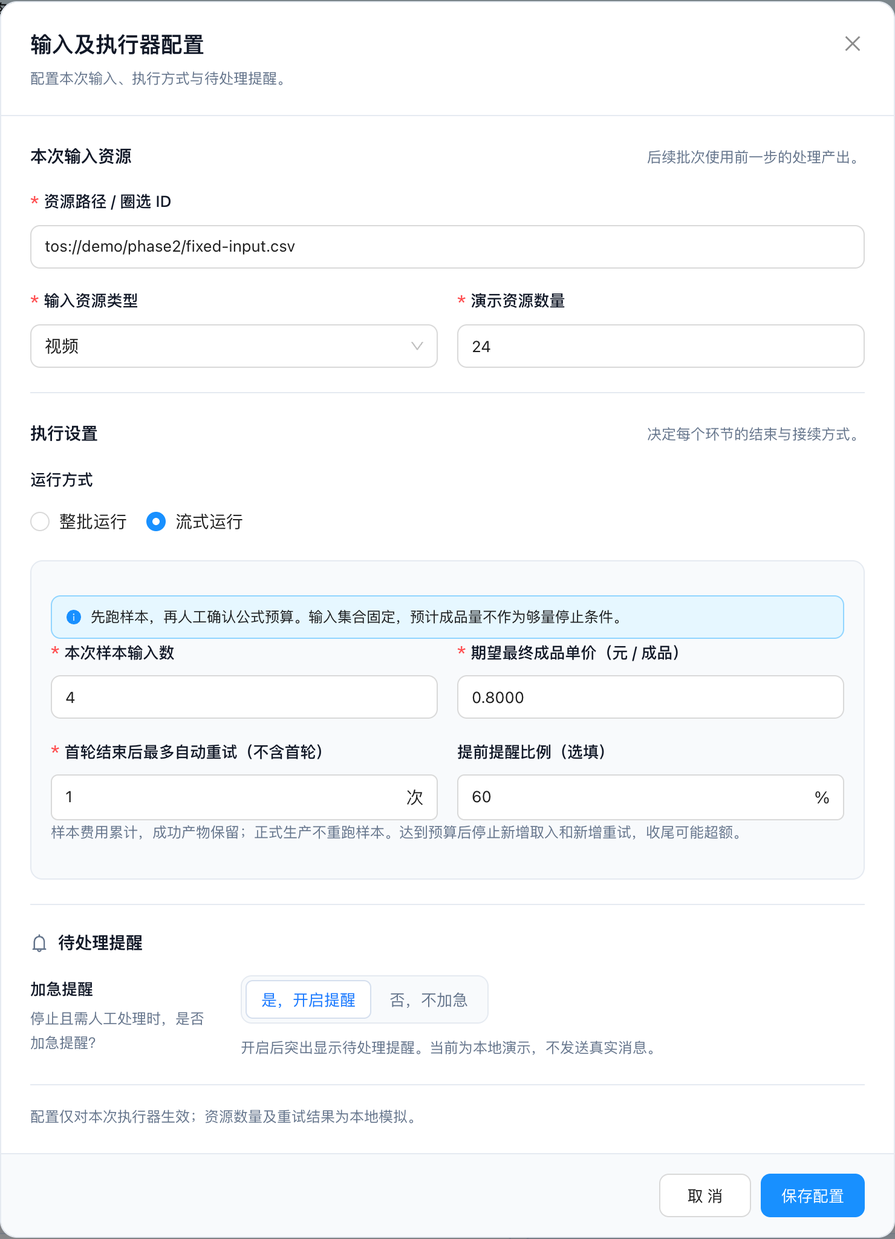
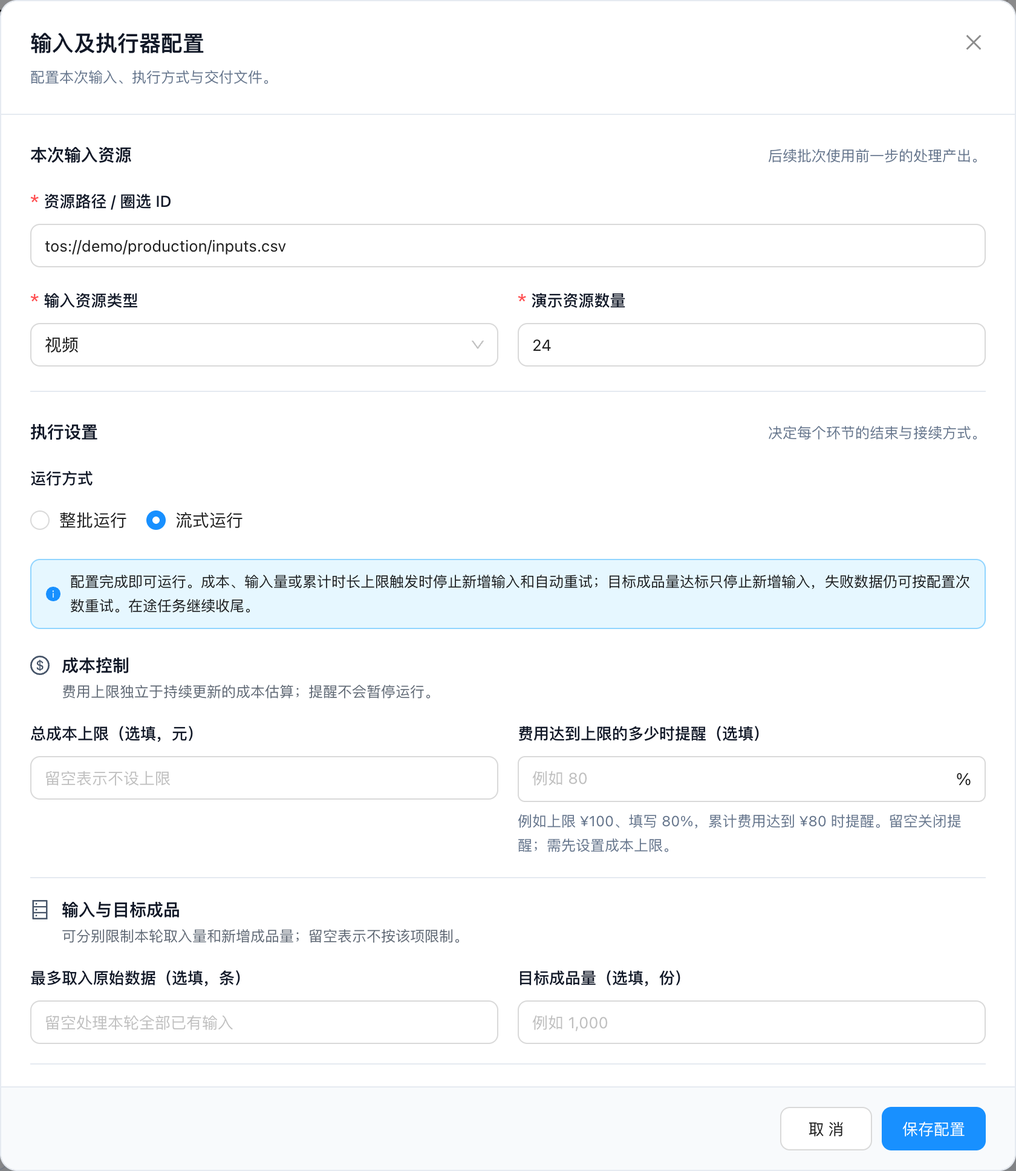
Clarify executor settings and anonymize demo data

diff --git a/src/components/sites/hawk/pipeline/executor-configuration.tsx b/src/components/sites/hawk/pipeline/executor-configuration.tsx
@@ -2,7 +2,7 @@
 
 import { useState } from 'react';
 import { Alert, Form, Input, InputNumber, Modal, Radio, Select, Slider, Typography } from 'antd';
-import { BellOutlined, CheckCircleOutlined, SafetyOutlined, AimOutlined } from '@ant-design/icons';
+import { BellOutlined, CheckCircleOutlined, SafetyOutlined, AimOutlined, BarChartOutlined, ClockCircleOutlined, DatabaseOutlined, DollarCircleOutlined, RedoOutlined } from '@ant-design/icons';
 import { executorSettings, type ExecutorSettings } from '../data/executor-settings';
 import type { StreamPolicy } from '../data/executor-streaming';
 import type { LocalExecutor } from '../data/local-workspace';
@@ -25,7 +25,7 @@ export function ExecutorConfiguration({ executor, onCancel, onSave }: { executor
   const after = Form.useWatch(['settings', 'afterRetries'], form) ?? executorSettings(executor.settings).afterRetries;
   const runMode = Form.useWatch('runMode', form) ?? executor.runMode ?? 'batch';
   const locked = Boolean(executor.runtime?.started);
-  return <Modal title={<div className="hawk-settings-heading"><span>输入及执行器配置</span><p>{locked ? '执行已开始，当前配置仅供查看。' : '配置本次输入、执行方式与交付文件。'}</p></div>} open centered width={740} className="hawk-settings-modal hawk-executor-configuration" okText="保存配置" okButtonProps={{ disabled: locked }} cancelText={locked ? '关闭' : '取消'} onCancel={onCancel} onOk={async () => {
+  return <Modal title={<div className="hawk-settings-heading"><span>输入及执行器配置</span><p>{locked ? '执行已开始，当前配置仅供查看。' : '配置本次输入、执行方式与交付文件。'}</p></div>} open centered width={840} className="hawk-settings-modal hawk-executor-configuration" okText="保存配置" okButtonProps={{ disabled: locked }} cancelText={locked ? '关闭' : '取消'} onCancel={onCancel} onOk={async () => {
     try { if (locked) return; const values = await form.validateFields(); onSave({ ...values, settings: executorSettings(values.settings) }); }
     catch (issue) { if (issue instanceof Error) setError(issue.message); }
   }}>
@@ -45,20 +45,35 @@ export function ExecutorConfiguration({ executor, onCancel, onSave }: { executor
       <section className="hawk-settings-section">
         <div className="hawk-settings-section-heading"><h3>执行设置</h3><p>决定每个环节的结束与接续方式。</p></div>
         <Form.Item name="runMode" label="运行方式"><Radio.Group disabled={locked} options={[{ value: 'batch', label: '整批运行' }, { value: 'stream', label: '流式运行' }]} /></Form.Item>
-        {runMode === 'stream' ? <div className="hawk-executor-target-settings">
-          <Alert type="info" showIcon message="启动时取得本轮已有输入，按流式连续处理。成本、输入条数、实际运行时长任一达到上限，停止新输入及自动重试；在途任务继续收尾。" />
-          <div className="hawk-executor-config-grid">
-            <Form.Item name={['streamPolicy', 'costLimitCents']} label="总成本上限（选填，元）" getValueProps={value => ({ value: value === undefined ? undefined : value / 100 })} getValueFromEvent={value => value === null || value === undefined ? undefined : Math.round(value * 100)}><InputNumber disabled={locked} min={0.01} precision={2} placeholder="留空表示不设上限" style={{ width: '100%' }} /></Form.Item>
-            <Form.Item name={['streamPolicy', 'inputLimit']} label="最多取入原始数据（选填，条）" getValueFromEvent={value => value ?? undefined}><InputNumber disabled={locked} min={1} precision={0} placeholder="留空处理本轮全部已有输入" style={{ width: '100%' }} /></Form.Item>
-            <Form.Item name={['streamPolicy', 'runtimeLimitMs']} label="累计运行时长上限（选填）" extra="按执行器整体累计实际处理时间；多个环节同时处理只计一次，不含暂停、排队和无数据等待。"><ExecutorDurationInput disabled={locked} /></Form.Item>
-            <Form.Item name={['streamPolicy', 'targetOutputCount']} label="目标成品量（选填，份）" getValueFromEvent={value => value ?? undefined} extra="达到后停止新输入，在途任务继续收尾，最终产量可能超出目标。失败数据仍按已配置的重试规则处理，人工重试由你决定。"><InputNumber disabled={locked} min={1} precision={0} placeholder="例如 1,000" style={{ width: '100%' }} /></Form.Item>
-            <Form.Item name={['streamPolicy', 'unitCostMin']} label="单条成品成本预估下限（选填）"><InputNumber disabled={locked} min={0.0001} precision={4} placeholder="元 / 可交付成品" style={{ width: '100%' }} /></Form.Item>
-            <Form.Item name={['streamPolicy', 'unitCostMax']} label="单条成品成本预估上限（选填）"><InputNumber disabled={locked} min={0.0001} precision={4} placeholder="元 / 可交付成品" style={{ width: '100%' }} /></Form.Item>
+        {runMode === 'stream' ? <div className="hawk-executor-target-settings hawk-stream-settings">
+          <Alert type="info" showIcon message="配置完成即可运行。成本、输入量或累计时长上限触发时停止新增输入和自动重试；目标成品量达标只停止新增输入，失败数据仍可按配置次数重试。在途任务继续收尾。" />
+          <section className="hawk-stream-config-group">
+            <div className="hawk-stream-config-heading"><DollarCircleOutlined aria-hidden="true" /><div><strong>成本控制</strong><p>费用上限独立于持续更新的成本估算；提醒不会暂停运行。</p></div></div>
+            <div className="hawk-executor-config-grid">
+              <Form.Item name={['streamPolicy', 'costLimitCents']} label="总成本上限（选填，元）" getValueProps={value => ({ value: value === undefined ? undefined : value / 100 })} getValueFromEvent={value => value === null || value === undefined ? undefined : Math.round(value * 100)}><InputNumber disabled={locked} min={0.01} precision={2} placeholder="留空表示不设上限" style={{ width: '100%' }} /></Form.Item>
+              <Form.Item name={['streamPolicy', 'reminderRatio']} label="费用达到上限的多少时提醒（选填）" extra="例如上限 ¥100、填写 80%，累计费用达到 ¥80 时提醒。留空关闭提醒；需先设置成本上限。"><InputNumber disabled={locked} min={0.01} max={99.99} suffix="%" placeholder="例如 80" style={{ width: '100%' }} /></Form.Item>
+            </div>
+          </section>
+          <section className="hawk-stream-config-group">
+            <div className="hawk-stream-config-heading"><DatabaseOutlined aria-hidden="true" /><div><strong>输入与目标成品</strong><p>可分别限制本轮取入量和新增成品量；留空表示不按该项限制。</p></div></div>
+            <div className="hawk-executor-config-grid">
+              <Form.Item name={['streamPolicy', 'inputLimit']} label="最多取入原始数据（选填，条）" getValueFromEvent={value => value ?? undefined}><InputNumber disabled={locked} min={1} precision={0} placeholder="留空处理本轮全部已有输入" style={{ width: '100%' }} /></Form.Item>
+              <Form.Item name={['streamPolicy', 'targetOutputCount']} label="目标成品量（选填，份）" getValueFromEvent={value => value ?? undefined}><InputNumber disabled={locked} min={1} precision={0} placeholder="例如 1,000" style={{ width: '100%' }} /></Form.Item>
+            </div>
+          </section>
+          <section className="hawk-stream-config-group">
+            <div className="hawk-stream-config-heading"><ClockCircleOutlined aria-hidden="true" /><div><strong>累计运行时长</strong><p>按执行器累计的实际处理时间计算，并行环节同时处理只计一次。</p></div></div>
+            <Form.Item name={['streamPolicy', 'runtimeLimitMs']} label="运行时长上限（选填）" extra="暂停、排队及无数据等待时间不计入；达到上限后停止新增输入和自动重试，在途任务继续收尾。"><ExecutorDurationInput disabled={locked} /></Form.Item>
+          </section>
+          <section className="hawk-stream-config-group">
+            <div className="hawk-stream-config-heading"><RedoOutlined aria-hidden="true" /><div><strong>失败数据重试</strong><p>限制自动重试轮数；暂停后可按需人工补救。</p></div></div>
             <Form.Item name={['streamPolicy', 'maxRetries']} label="首轮处理后，失败数据自动重试" extra="仅重试失败数据，成功后继续下游；0 表示不自动重试，次数不含首次执行。"><InputNumber disabled={locked} min={0} precision={0} suffix="轮" style={{ width: '100%' }} /></Form.Item>
-            <Form.Item name={['streamPolicy', 'reminderRatio']} label="费用达到上限的多少时提醒（选填）" extra="例如上限 ¥100、填写 80%，累计费用达到 ¥80 时提醒，仍继续运行。留空关闭提醒；需先设置成本上限。"><InputNumber disabled={locked} min={0.01} max={99.99} suffix="%" placeholder="例如 80；留空关闭提醒" style={{ width: '100%' }} /></Form.Item>
-          </div>
-          <Form.Item name={['streamPolicy', 'observationSize']} label="观察批量" className="hawk-observation-slider"><Slider disabled={locked} min={100} max={1000} step={100} marks={{ 100: { style: { transform: 'none' }, label: '100 条' }, 500: '500 条', 1000: { style: { transform: 'translateX(-100%)' }, label: '1,000 条' } }} /></Form.Item>
-          <Typography.Paragraph type="secondary">按已收尾输入的最终成品计算单位成本，包含失败与重试投入。观察批量仅用于更新估算，不影响直接生产；扩大样本不保证缩小预测波动。</Typography.Paragraph>
+          </section>
+          <section className="hawk-stream-config-group hawk-stream-observation">
+            <div className="hawk-stream-config-heading"><BarChartOutlined aria-hidden="true" /><div><strong>估算刷新批量</strong><p>只影响成本与产量估算更新频率，不影响生产启动或取入量。</p></div></div>
+            <Form.Item name={['streamPolicy', 'observationSize']} label="观察批量" className="hawk-observation-slider"><Slider disabled={locked} min={100} max={1000} step={100} marks={{ 100: { style: { transform: 'none' }, label: '100 条' }, 500: '500 条', 1000: { style: { transform: 'translateX(-100%)' }, label: '1,000 条' } }} /></Form.Item>
+          </section>
+          <Typography.Paragraph type="secondary">成本预测按已收尾输入及最终成品配对估算，包含失败与重试投入；样本不足时显示原因，不保证后续输入与样本相同。</Typography.Paragraph>
         </div> : <><div className="hawk-settings-row">
           <div className="hawk-settings-row-label"><strong>执行模式</strong><p>应用于本次执行器的所有环节。</p></div>
           <div>

diff --git a/src/components/sites/hawk/data/phase2-examples.ts b/src/components/sites/hawk/data/phase2-examples.ts
@@ -1,17 +1,55 @@
 import type { LocalWorkspace } from './local-workspace';
 import { executorSettings } from './executor-settings';
-import { withDeliveryExamples } from './delivery-examples';
+import { DELIVERY_DEMO_FLOW_NAMES, withDeliveryExamples } from './delivery-examples';
 import { cloneExecutor, configureExecutor } from './executor-runtime';
 import { startStream, tickStream } from './executor-streaming';
+import { cloneWorkspace } from './delivery';
+
+const PHASE2_EXECUTOR_NAMES = {
+  'phase2-1555': ['运行上限与计时 · 可启动验收执行器', '定军山 · 运行上限与计时'],
+  'phase2-1441': ['录屏迭代验收 · 可启动的三环节执行器', '长坂坡 · 三环节流式验收'],
+  'phase2-demo': ['流式生产 · 实绩成本估算', '草船借箭 · 流式生产与成本估算'],
+  'phase2-cost': ['成本上限 · 收尾与人工继续', '赤壁火攻 · 成本收尾与人工继续'],
+  'phase2-zero': ['零成品 · 成本不可计算', '空城计 · 零成品与估算边界'],
+  'phase2-acceptance': ['验收演示 · 可启动的三环节流式执行器', '桃园结义 · 三环节流式验收'],
+  'phase2-live': ['流式生产 · 实绩与成本估算', '木牛流马 · 流式生产与成本估算'],
+} as const;
+
+function refreshPhase2ExampleNames(workspace: LocalWorkspace): LocalWorkspace {
+  let changes = false;
+  for (const [id, [oldName]] of Object.entries(PHASE2_EXECUTOR_NAMES)) {
+    const executor = workspace.executors.find(item => item.id === id);
+    if (executor?.name === oldName || executor?.flows.some((flow, index) => flow.id === `delivery-demo-${index}` && flow.name === ['A · 数据整理', 'B · 标注处理', 'C · 结果复核'][index])) changes = true;
+    if (executor?.runtime?.batchIds.some(batchId => workspace.batches.some(batch => batch.id === batchId && ['A · 数据整理', 'B · 标注处理', 'C · 结果复核'].includes(batch.name)))) changes = true;
+  }
+  if (!changes) return workspace;
+  const next = cloneWorkspace(workspace);
+  for (const [id, [oldName, name]] of Object.entries(PHASE2_EXECUTOR_NAMES)) {
+    const executor = next.executors.find(item => item.id === id);
+    if (!executor) continue;
+    if (executor.name === oldName) executor.name = name;
+    executor.flows = executor.flows.map((flow, index) => ({
+      ...flow,
+      name: flow.id === `delivery-demo-${index}` && ['A · 数据整理', 'B · 标注处理', 'C · 结果复核'][index] === flow.name ? DELIVERY_DEMO_FLOW_NAMES[index] : flow.name,
+    }));
+    for (const batchId of executor.runtime?.batchIds ?? []) {
+      const batch = next.batches.find(item => item.id === batchId);
+      const index = batch ? ['A · 数据整理', 'B · 标注处理', 'C · 结果复核'].indexOf(batch.name) : -1;
+      if (batch && index >= 0) batch.name = DELIVERY_DEMO_FLOW_NAMES[index];
+    }
+  }
+  return next;
+}
+
 /** Opt-in, synthetic fixtures. Existing records are never overwritten. Parameters are scenario inputs, not business defaults. */
 export function withPhase2Examples(w: LocalWorkspace): LocalWorkspace {
   let next = withDeliveryExamples(w);
   for (const [id, name, policy] of [
-    ['phase2-1555', '运行上限与计时 · 可启动验收执行器', { maxRetries: 0, observationSize: 100 }],
-    ['phase2-1441', '录屏迭代验收 · 可启动的三环节执行器', { maxRetries: 0, observationSize: 100 }],
-    ['phase2-demo', '流式生产 · 实绩成本估算', { maxRetries: 1, observationSize: 100 }],
-    ['phase2-cost', '成本上限 · 收尾与人工继续', { costLimitCents: 432, maxRetries: 1, reminderRatio: 60, observationSize: 100 }],
-    ['phase2-zero', '零成品 · 成本不可计算', { maxRetries: 0, observationSize: 100 }],
+    ['phase2-1555', '定军山 · 运行上限与计时', { maxRetries: 0, observationSize: 100 }],
+    ['phase2-1441', '长坂坡 · 三环节流式验收', { maxRetries: 0, observationSize: 100 }],
+    ['phase2-demo', '草船借箭 · 流式生产与成本估算', { maxRetries: 1, observationSize: 100 }],
+    ['phase2-cost', '赤壁火攻 · 成本收尾与人工继续', { costLimitCents: 432, maxRetries: 1, reminderRatio: 60, observationSize: 100 }],
+    ['phase2-zero', '空城计 · 零成品与估算边界', { maxRetries: 0, observationSize: 100 }],
   ] as const) {
     if (next.executors.some(e => e.id === id)) continue;
     next = cloneExecutor(next, 'delivery-demo', { id, name, includeInput: true, includeConfiguration: true });
@@ -19,17 +57,17 @@ export function withPhase2Examples(w: LocalWorkspace): LocalWorkspace {
     if (id === 'phase2-zero') next.executors.find(e => e.id === id)!.streamPolicy!.costLimitCents = undefined;
   }
   if (!next.executors.some(e => e.id === 'phase2-acceptance')) {
-    next = cloneExecutor(next, 'delivery-demo', { id: 'phase2-acceptance', name: '验收演示 · 可启动的三环节流式执行器', includeInput: true, includeConfiguration: true });
+    next = cloneExecutor(next, 'delivery-demo', { id: 'phase2-acceptance', name: '桃园结义 · 三环节流式验收', includeInput: true, includeConfiguration: true });
     next = configureExecutor(next, 'phase2-acceptance', { resource: 'tos://demo/acceptance/240-videos.csv', count: 240, resourceType: 'video', settings: executorSettings(), runMode: 'stream', streamPolicy: { maxRetries: 0, observationSize: 100 } });
   }
   if (!next.executors.some(e => e.id === 'phase2-live')) {
-    next = cloneExecutor(next, 'delivery-demo', { id: 'phase2-live', name: '流式生产 · 实绩与成本估算', includeInput: true, includeConfiguration: true });
-    next = configureExecutor(next, 'phase2-live', { resource: 'tos://demo/production/10k-videos.csv', count: 10000, resourceType: 'video', settings: executorSettings(), runMode: 'stream', streamPolicy: { costLimitCents: 80000, unitCostMin: 0.2, unitCostMax: 0.4, maxRetries: 1, observationSize: 100 } });
+    next = cloneExecutor(next, 'delivery-demo', { id: 'phase2-live', name: '木牛流马 · 流式生产与成本估算', includeInput: true, includeConfiguration: true });
+    next = configureExecutor(next, 'phase2-live', { resource: 'tos://demo/production/10k-videos.csv', count: 10000, resourceType: 'video', settings: executorSettings(), runMode: 'stream', streamPolicy: { costLimitCents: 80000, maxRetries: 1, observationSize: 100 } });
     next = startStream(next, 'phase2-live');
     for (let i = 0; i < 130; i++) next = tickStream(next, 'phase2-live');
     // Pre-seeded progress has no measured browser intervals.
     const seeded = next.executors.find(e => e.id === 'phase2-live')!.stream!;
     seeded.activeRunMs = undefined; seeded.stageActiveMs = undefined;
   }
-  return next;
+  return refreshPhase2ExampleNames(next);
 }

diff --git a/src/components/sites/hawk/data/delivery-examples.ts b/src/components/sites/hawk/data/delivery-examples.ts
@@ -4,9 +4,32 @@ import type { PipelineDraft } from './mock-pipelines';
 import { cloneWorkspace, type ResultRecord } from './delivery';
 import { initializeExecutor, setExecutorInput } from './executor-runtime';
 
+export const DELIVERY_DEMO_FLOW_NAMES = ['桃园结义 · 数据整理', '草船借箭 · 标注处理', '赤壁火攻 · 成果复核'] as const;
+const LEGACY_DELIVERY_DEMO_FLOW_NAMES = ['A · 数据整理', 'B · 标注处理', 'C · 结果复核'] as const;
+
+function refreshDeliveryDemoNames(workspace: LocalWorkspace): LocalWorkspace {
+  const executor = workspace.executors.find(item => item.id === 'delivery-demo');
+  const batch = workspace.batches.find(item => item.id === 5889);
+  const flowChanges = executor?.flows.some((flow, index) => flow.id === `delivery-demo-${index}` && flow.name === LEGACY_DELIVERY_DEMO_FLOW_NAMES[index]);
+  const hasLegacyNames = executor?.name === '导出体验 · 三环节串联示例' || batch?.name === '时间范围导出 · 示例批次' || batch?.nodes.some(node => node.name === '结果处理') || flowChanges;
+  if (!hasLegacyNames) return workspace;
+
+  const next = cloneWorkspace(workspace);
+  const demo = next.executors.find(item => item.id === 'delivery-demo');
+  const demoBatch = next.batches.find(item => item.id === 5889);
+  if (demo?.name === '导出体验 · 三环节串联示例') demo.name = '桃园结义 · 三环节串联示例';
+  if (demo) demo.flows = demo.flows.map((flow, index) => ({
+    ...flow,
+    name: flow.id === `delivery-demo-${index}` && flow.name === LEGACY_DELIVERY_DEMO_FLOW_NAMES[index] ? DELIVERY_DEMO_FLOW_NAMES[index] : flow.name,
+  }));
+  if (demoBatch?.name === '时间范围导出 · 示例批次') demoBatch.name = '草船借箭 · 时间范围导出示例';
+  if (demoBatch) demoBatch.nodes = demoBatch.nodes.map(node => node.name === '结果处理' ? { ...node, name: '结果整理' } : node);
+  return next;
+}
+
 /** Explicit opt-in examples. Never reset existing user work or rewrite legacy rows. */
 export function withDeliveryExamples(workspace: LocalWorkspace): LocalWorkspace {
-  if (workspace.executors.some(item => item.id === 'delivery-demo') && workspace.batches.some(item => item.id === 5889)) return workspace;
+  if (workspace.executors.some(item => item.id === 'delivery-demo') && workspace.batches.some(item => item.id === 5889)) return refreshDeliveryDemoNames(workspace);
   let next = cloneWorkspace(workspace);
   const sampleResults = (id: number): ResultRecord[] => [3, 1, 2, 6, 4, 5, 9, 7, 8, 12, 10, 11].map((order, index) => ({
     id: `${id}:${order}`, batchId: id, inputOrder: order,
@@ -14,12 +37,12 @@ export function withDeliveryExamples(workspace: LocalWorkspace): LocalWorkspace 
     values: { tos_path: `tos://demo/time-export/${order}.json`, result: `合成示例 ${order}` },
   }));
   if (!next.batches.some(item => item.id === 5889)) {
-    const batch: BatchRow = { id: 5889, projectId: 234, name: '时间范围导出 · 示例批次', workflow: 'flow.delivery-demo@1', status: '已暂停', total: 24, success: 12, failed: 0, filtered: 0, progress: 50, cost: '¥ 0.00', createdAt: '2026-11-03 08:50:00', updatedAt: '2026-11-03 10:25:00', material: '其他', notice: '不通知', inputResource: 'tos://demo/time-export/input.csv', outputFields: ['tos_path', 'result'], nodes: [{ seq: 1, name: '结果处理', status: '已完成', cost: '¥ 0.00' }], results: sampleResults(5889), simulation: {} };
+    const batch: BatchRow = { id: 5889, projectId: 234, name: '草船借箭 · 时间范围导出示例', workflow: 'flow.delivery-demo@1', status: '已暂停', total: 24, success: 12, failed: 0, filtered: 0, progress: 50, cost: '¥ 0.00', createdAt: '2026-11-03 08:50:00', updatedAt: '2026-11-03 10:25:00', material: '其他', notice: '不通知', inputResource: 'tos://demo/time-export/input.csv', outputFields: ['tos_path', 'result'], nodes: [{ seq: 1, name: '结果整理', status: '已完成', cost: '¥ 0.00' }], results: sampleResults(5889), simulation: {} };
     next.batches.push(batch);
   }
   if (!next.executors.some(item => item.id === 'delivery-demo')) {
-    const flows: PipelineDraft[] = ['A · 数据整理', 'B · 标注处理', 'C · 结果复核'].map((name, index) => ({ id: `delivery-demo-${index}`, name, description: '导出体验合成示例', status: 'published', outputs: ['tos_path', 'result'], version: 1 }));
-    next.executors.push({ id: 'delivery-demo', name: '导出体验 · 三环节串联示例', description: '合成数据，演示当前批次收尾与下游接续', projectId: 234, source: 'selection', flowIds: flows.map(item => item.id), flows });
+    const flows: PipelineDraft[] = DELIVERY_DEMO_FLOW_NAMES.map((name, index) => ({ id: `delivery-demo-${index}`, name, description: '导出体验合成示例', status: 'published', outputs: ['tos_path', 'result'], version: 1 }));
+    next.executors.push({ id: 'delivery-demo', name: '桃园结义 · 三环节串联示例', description: '合成数据，演示当前批次收尾与下游接续', projectId: 234, source: 'selection', flowIds: flows.map(item => item.id), flows });
     next = initializeExecutor(next, 'delivery-demo', Object.fromEntries(flows.map(flow => [`annotation-demo.published.${flow.id}.v1`, { nodes: [{ id: 'process', data: { operatorId: 'demo', label: flow.name } }] }])));
     next = setExecutorInput(next, 'delivery-demo', 'tos://demo/time-export/input.csv', 24);
     const executor = next.executors.find(item => item.id === 'delivery-demo')!;
@@ -27,5 +50,5 @@ export function withDeliveryExamples(workspace: LocalWorkspace): LocalWorkspace 
     const first = next.batches.find(item => item.id === executor.runtime!.batchIds[0])!;
     Object.assign(first, { status: '已暂停', success: 12, progress: 50, results: sampleResults(first.id) });
   }
-  return next;
+  return refreshDeliveryDemoNames(next);
 }

diff --git a/src/components/sites/hawk/pipeline/executor-configuration.css b/src/components/sites/hawk/pipeline/executor-configuration.css
@@ -24,6 +24,19 @@
 .hawk-executor-configuration .hawk-executor-mode .anticon{margin-right:6px;font-size:14px}
 .hawk-executor-configuration .hawk-executor-mode-help{margin:10px 0 0;padding:0;background:transparent;border-radius:0;font-size:12px;color:#64748b;line-height:20px}
 .hawk-executor-configuration .hawk-executor-target-settings{padding:16px;margin-top:16px;background:#f8fafc;border:1px solid #e5eaf1;border-radius:10px}
+.hawk-executor-configuration .hawk-executor-target-settings.hawk-stream-settings{padding:0;margin-top:12px;background:transparent;border:0;border-radius:0}
+.hawk-stream-settings>.ant-alert{margin:0 0 4px;font-size:12px;line-height:20px}
+.hawk-stream-config-group{padding:16px 0;border-top:1px solid #e5eaf1}
+.hawk-stream-config-group:first-of-type{border-top:0}
+.hawk-stream-config-heading{display:flex;align-items:flex-start;gap:10px;margin-bottom:14px}
+.hawk-stream-config-heading>.anticon{flex:none;margin-top:2px;color:#475569;font-size:16px}
+.hawk-stream-config-heading strong{display:block;color:#111827;font-size:14px;font-weight:600;line-height:20px}
+.hawk-stream-config-heading p{margin:3px 0 0;color:#5f6874;font-size:12px;line-height:18px}
+.hawk-stream-config-group .ant-form-item{margin-bottom:0}
+.hawk-stream-config-group>.ant-form-item{max-width:calc(50% - 8px)}
+.hawk-stream-config-group .ant-form-item-extra{font-size:12px;line-height:19px}
+.hawk-stream-observation .hawk-observation-slider{max-width:none;padding:8px 12px 0;margin-bottom:12px}
+.hawk-stream-settings>.ant-typography{margin:4px 0 16px;font-size:12px;line-height:19px;color:#5f6874}
 .hawk-executor-configuration .hawk-executor-rate-formula{background:transparent;color:#64748b;font-size:12px;line-height:20px;margin:10px 0 16px;padding:0}
 .hawk-executor-configuration .hawk-executor-target-settings .hawk-executor-config-note{margin-top:12px}
 .hawk-executor-configuration .hawk-executor-target-settings .ant-alert{margin-top:12px;font-size:12px}

diff --git a/src/components/sites/hawk/data/executor-streaming.ts b/src/components/sites/hawk/data/executor-streaming.ts
@@ -49,9 +49,6 @@ export function validateStreamPolicy(policy: StreamPolicy, count: number) {
     const value = policy[key];
     if (value !== undefined && (!Number.isSafeInteger(value) || value <= 0)) throw new Error(`${label}须为正整数，或留空`);
   }
-  if (policy.unitCostMin !== undefined && (!Number.isFinite(policy.unitCostMin) || policy.unitCostMin <= 0)) throw new Error('单条成品成本下限须大于 0，或留空');
-  if (policy.unitCostMax !== undefined && (!Number.isFinite(policy.unitCostMax) || policy.unitCostMax <= 0)) throw new Error('单条成品成本上限须大于 0，或留空');
-  if (policy.unitCostMin !== undefined && policy.unitCostMax !== undefined && policy.unitCostMin > policy.unitCostMax) throw new Error('单条成品成本下限不能高于上限');
   if (!Number.isSafeInteger(policy.maxRetries) || policy.maxRetries < 0) throw new Error('请填写有限的非负整数重试次数，0 表示不自动重试');
   if (policy.reminderRatio !== undefined && (!Number.isFinite(policy.reminderRatio) || policy.reminderRatio <= 0 || policy.reminderRatio >= 100)) throw new Error('提前提醒比例须大于 0 且小于 100%，也可留空');
   if (policy.observationSize !== undefined && (!Number.isSafeInteger(policy.observationSize) || policy.observationSize < 100 || policy.observationSize > 1000)) throw new Error('观察批量须为 100 至 1000 条之间的整数');

diff --git a/docs/executor-phase2-20261103.md b/docs/executor-phase2-20261103.md
@@ -7,7 +7,7 @@
 | 项目 | 内容 |
 |---|---|
 | 所属项目 | 机器标注平台／执行器二期 |
-| 状态与版本 | v2026.11.04 界面对齐稿；直接启动、持续估算/独立成本上限、有限重试与人工补救、可选目标量停取入均已确认；时间→产量为 P2 必做需求，当前待实现；生产能力未验收 |
+| 状态与版本 | v2026.11.05 界面对齐与验收补充稿；直接启动、持续估算/独立成本上限、有限重试与人工补救、可选目标量停取入均已确认；无效单条成本输入已移除；时间→产量为 P2 必做需求，当前待实现；生产能力未验收 |
 | 负责人／排期 | 待确认；不得从会议计划推断上线 |
 | 资源 | 产品、设计、前后端、测试；投入待确认 |
 | 上下钻入口 | [需求总览](https://fyze31atzb.feishu.cn/docx/BzMZd9CVLoNxtPxx4b2czeronse) · [执行器二期](https://fyze31atzb.feishu.cn/wiki/VTzeweL4IiJ5WDkkV77cs5G2nNd) · [批次共用能力](https://fyze31atzb.feishu.cn/docx/VZwGd6aUioGjAjxYhupcVW3hnPh) · [一期基础](https://fyze31atzb.feishu.cn/wiki/PoWywcoIcim273kN4G7c2TBInnd) |
@@ -21,7 +21,8 @@
 | 2026-11-03 原导出稿 | 时间区间重叠完整导出、原快照重试 | 同日交付反馈，原导出文档 |
 | 2026-11-03 本次整合 | 总览＋两份详稿；公式成品预算、模式拆分、范围与原型同步 | 用户逐项确认与批准实施计划 |
 | 2026-11-04 界面对齐 | 合并已确认的直接启动、持续估算/独立成本上限、有限重试与人工补救；确认目标量是可选停取入上限，时间→产量纳入低优先级必做开发范围 | 当前线上界面、提交 ee92646、本地验证材料及用户确认 |
-| 2026-11-05 原型验收反馈 | 用户线上验收反馈整体无重大问题；作为当前原型反馈记录，不代表生产能力验收完成 | 用户反馈 |
+| 2026-11-05 原型验收与界面可读性 | 用户反馈整体无重大问题；将成本、时间、取入和重试配置分组，补充语义图标；演示工作流及人员名使用三国演义题材匿名化 | 用户线上验收反馈及截图 |
+| 2026-11-05 成本配置确认 | 移除不参与预测的单条成品成本上下限；持续成本估算继续由已收尾样本驱动，旧存值仅兼容读取 | 用户确认移除无效输入 |
 
 原文保留在飞书版本历史及本地写入前快照。E01–E14 记录此前已确认的业务基线；其中已被 2026-11-04 用户决定替代的部分在增量规则中标为删除线，当前规则以 4.2.1 为准。4.4 保留界面事实及尚未确认项；合成数据不代表生产服务已接入。
 
@@ -136,16 +137,23 @@
 | 失败数据补救 | 自动重试次数有限；人工补救前先暂停，仅重试选定失败环节及其下游，已有成功结果和正常队列保留，结束后仍保持暂停。 | 用户确认保留有限次数和人工补救，不要求全链成本收益预测门槛。生产扫描、幂等与资源成本待联调。 | [流式执行器](https://isaac-some.github.io/Machine-Annotation-Platform-Product-Prototype-Demo/hawk/pipeline/executor/?id=phase2-demo&example=phase2) |
 | 克隆与配置 | 可选择继承实际配置、带入输入；新实例运行、结果、费用和成本上限隔离。 | 界面和本地逻辑已提供；真实发布版本回退与字段依赖校验仍是生产待接入项。 | [流式执行器](https://isaac-some.github.io/Machine-Annotation-Platform-Product-Prototype-Demo/hawk/pipeline/executor/?id=phase2-demo&example=phase2) |
 | 结果本地存储 | 批次结果从 localStorage 迁移到 IndexedDB，旧结果读取后再保存；保存失败时停止模拟并保留现有数据。 | 自动化迁移测试通过；用户原浏览器资料迁移和 5000 条输入实测尚待验收。不得清理原浏览器存储。 | [流式执行器](https://isaac-some.github.io/Machine-Annotation-Platform-Product-Prototype-Demo/hawk/pipeline/executor/?id=phase2-demo&example=phase2) |
+| 配置弹窗可读性 | 将成本限制、时长限制、取入/成品目标和失败重试分组呈现；用简洁线性图标标识分组，图标不替代文字标签。 | 只调整信息层级与可读性，不改变已确认的启动、上限、收尾和重试规则；按桌面 Web 界面验收。 | [流式执行器配置](https://isaac-some.github.io/Machine-Annotation-Platform-Product-Prototype-Demo/hawk/pipeline/executor/?id=phase2-demo&example=phase2) |
+| 无效单条成本输入 | 配置弹窗不再提供单条成品成本预估上下限；持续估算依据已收尾样本，单独设置的总成本上限保持不变。 | 两个旧字段仅为历史兼容数据，不参与计算、校验或新配置默认值。 | [流式执行器配置](https://isaac-some.github.io/Machine-Annotation-Platform-Product-Prototype-Demo/hawk/pipeline/executor/?id=phase2-demo&example=phase2) |
+| 演示数据匿名化 | 演示工作流名使用三国故事、回目或事件；人员字段使用三国演义人物名，不出现真实人员姓名。 | 仅约束演示数据；真实业务身份仍由生产系统提供。 | 项目、工作流及执行器演示样例 |
 
 **本轮确认结论：** 目标成品量采用可选停取入上限，达标后仍按配置次数自动重试失败数据；时间→产量纳入低优先级必做开发范围，数据不足时不可估算。当前功能差距与生产依赖继续记录，不将“已确认需求”误标为“已完成开发”。
 
-**2026-11-05 原型验收反馈：** 用户反馈线上原型“没什么太大问题”。此结论仅表示本轮界面验收整体无重大问题；不代表真实费用、通知、吞吐数据或失败输入恢复等生产能力已验收。P2 时间→产量有效数据估算仍待实现。
+**2026-11-05 原型验收反馈：** 用户反馈线上原型“没什么太大问题”。此结论仅表示本轮整体界面验收无重大问题；截图所示成本、时间等配置仍需分组以提高可读性，且应以线性图标辅助识别分组，不代表真实费用、通知、吞吐数据或失败输入恢复等生产能力已验收。P2 时间→产量有效数据估算仍待实现。
+
+**2026-11-05 配置界面整理约束：** 配置按操作者要做的决策分为“成本控制”“运行时长”“输入与目标成品”“失败数据重试”“估算刷新批量”等区块；费用预测与费用停止上限应有明确区分，图标须与可见文字并用，不使用彩色图标底块。单条成品成本上下限不参与预测，按用户确认移除；持续成本估算仍依据已收尾样本，独立总成本上限不变。
+
+**演示内容匿名化约束：** 页面展示的演示工作流名采用《三国演义》人物、回目或事件相关词语；负责人、创建者、参与者等演示人员字段采用《三国演义》人物名。不得使用或沿用真实人员姓名。该规则限于演示样例，不改变真实生产账户身份。
 
 # 五、非功能需求
 
 - 兼容性：旧数据缺运行方式按整批解释；保留已有本地数据、历史结果与交付资源。写入采用可选字段扩展，不清库。
 - 一致性：成功结果下传、预算确认、重试与导出需幂等；生产跨服务一致性与费用延迟阈值待研发定义，原型不承诺SLA。
-- 可用性：桌面与390px窄屏关键弹窗／确认操作可达，错误保留已填内容；刷新后恢复暂停、费用、上限、进度与任务快照。旧结果迁移不得清库或丢失。
+- 可用性：桌面 Web 关键弹窗／确认操作可达，错误保留已填内容；刷新后恢复暂停、费用、上限、进度与任务快照。旧结果迁移不得清库或丢失。
 - 原型边界：合成数据、模拟服务、浏览器保存，关闭页面不补跑。真实模型调用、费用结算、飞书通知、稳定CID、完整输入扫描、字段推导与生产重试接口均待联调。
 
 # 六、埋点
@@ -178,11 +186,12 @@
 | D19 | 目标量只估算／达到目标立即停止全部处理 | 目标量可选填；留空不按目标停机，达到已填目标停止新增输入，在途继续收尾，最终产量可超出 | 用户确认，2026-11-04 | 让用户选择是否够量停取入，并保留在途投入 | E15-A1、E15-A2 |
 | D20 | 时间→产量可能只保留不可用占位 | 时间→产量为 P2 必做需求，纳入后续开发；有效数据下须能估算，数据不足时说明原因 | 用户确认，2026-11-04 | 保留投入时间与产量决策能力，允许降低实现优先级 | E16-A1、E16-A2 |
 | D21 | 达标后配置说明允许自动重试，旧代码停止自动重试 | 达标后仍按已配置次数自动重试失败数据；停止新增输入、保留成功结果；成本和时长等其他运行上限继续适用 | 用户逐项确认，2026-11-04 | 分开控制新输入与失败重试，对齐用户选择的界面行为 | E15-A3、E15-A4 |
+| D22 | 单条成品成本预估上下限被保存但不参与预测 | 移除这两个输入；成本预测继续基于已收尾样本，总成本上限独立设置不变；旧存值保留兼容但不参与运行校验 | 用户确认，2026-11-05 | 删除无效输入，避免误以为它会覆盖样本估算 | 成本估算与上限、配置弹窗可读性 |
 | D14 | 运行／导出／告警多篇同时有效 | 总览＋二期＋共用；旧优化稿转历史导航 | 用户确认，2026-11-03 | 消除多套有效规则 | 三文档互链及迁移指引回读 |
 
 ## 附录 B：来源核对
 
-- **已确认决定**：本轮用户逐项确认及批准实施计划（2026-11-03）；10/21最终修改包；11/3导出反馈；以及 2026-11-04 确认的直接启动、持续估算/独立成本上限、有限重试与人工补救、可选目标量停取入及达标后有限自动重试、低优先级必做的时间→产量估算。会议的新建议不得覆盖这些决定。
+- **已确认决定**：本轮用户逐项确认及批准实施计划（2026-11-03）；10/21最终修改包；11/3导出反馈；2026-11-04 确认的直接启动、持续估算/独立成本上限、有限重试与人工补救、可选目标量停取入及达标后有限自动重试、低优先级必做的时间→产量估算；以及 2026-11-05 确认移除无效单条成品成本输入。会议的新建议不得覆盖这些决定。
 - **历史基线**：一期当前云稿、10/19二期旧稿、10/21本地最终核对稿、10/22共用优化文档。10/21修正未进入旧云稿，因此旧云稿不能单独当最新规则。
 - **会议建议**：11/2成本与转化会议（OpenViking meeting-3f239a9eaa0d0b57，源src-9279de8c54819b47）；11/2追溯会议（meeting-1fd06871610053b0）；10/29目标口径会议（meeting-8083ea651aac643a）。它们解释风险和边界，不代表生产方案已定。
 - **研发限制**：11/3重试会议（meeting-f463d21c6e99c00a，源src-d05d9833a16bbc07）：只存rowkey不等于保存完整输入，需扫描且存在内存／资源成本；未形成即时精准恢复方案。

diff --git a/docs/executor-requirements-overview-20261103.md b/docs/executor-requirements-overview-20261103.md
@@ -1,6 +1,6 @@
 # 执行器与批次能力：需求总览
 
-需求仍由两份详稿承载：执行器二期解决持续产出和成品成本决策，批次共用能力解决失败恢复、值守提醒和阶段性交付。2026-11-04 用户已确认直接启动、持续估算与独立成本上限、有限重试与人工补救、可选目标量停取入；时间→产量确认为低优先级必做需求。这些决定覆盖此前冲突规则。总览只负责导航、范围与依赖，不维护第三套细则。
+需求仍由两份详稿承载：执行器二期解决持续产出和成品成本决策，批次共用能力解决失败恢复、值守提醒和阶段性交付。2026-11-04 用户已确认直接启动、持续估算与独立成本上限、有限重试与人工补救、可选目标量停取入；时间→产量确认为低优先级必做需求。2026-11-05 用户反馈原型整体无重大问题，并要求整理成本/时间配置的可读性及演示数据匿名化。这些决定覆盖此前冲突规则。总览只负责导航、范围与依赖，不维护第三套细则。
 
 ## 文档层级与读者任务
 
@@ -22,6 +22,9 @@
 - 输入条数、累计处理时长等设置在当前界面可选。**2026-11-04 已确认**：目标成品量是可选停取入上限；留空不按目标停机，达到已填目标后停止新增输入，在途继续收尾，失败数据仍按配置次数自动重试，最终成品数可能超出目标；成本和时长等其他运行上限继续生效。
 - **2026-11-04 已确认**：时间→产量纳入后续开发，标为 P2 低优先级必做；有有效吞吐数据时按投入时长估算新增可交付产量，数据不足时说明不可估算原因。当前原型只有不可估算提示，实际预测仍待实现。
 - **2026-11-04 已确认**：自动重试限定次数，保留暂停后的人工失败数据补救；本轮不要求以全链成本收益预测作为自动重试门槛。生产输入扫描、幂等与资源成本仍待联调。
+- **2026-11-05 界面验收反馈**：整体无重大问题；成本控制、运行时长、输入/成品目标及失败重试应分组显示，并用线性图标辅助识别。只调整界面层级，不改变已确认的业务行为。
+- **2026-11-05 演示数据匿名化**：演示工作流及项目名称使用三国故事相关词语，人员字段使用《三国演义》人物名；不得出现真实人员姓名。仅作用于演示样例，不改变生产账户身份。
+- **2026-11-05 成本字段确认**：移除不参与预测的“单条成品成本预估上下限”；成本估算继续依据已收尾样本持续更新，不另设单条成本覆盖值。历史保存值仅为兼容数据，不读取为估算规则。
 - 重叠范围完整导出，失败重试原任务原快照。主动导出不驱动下游；整批等收尾文件，流式消费就绪结果。
 - 必要关联先做，完整逐条与跨平台追溯后置。克隆展开需求并独立排期，配置复用与运行结果隔离。
 
@@ -55,7 +58,7 @@
 
 ## 来源、变更与未决项
 
-- **已确认决定**：2026-11-03 用户逐项确认及批准的实施计划、10/21最终修改包、11/3导出反馈；2026-11-04 用户确认配置后直接启动、持续成本估算与独立可选成本上限、有限自动重试与人工补救、可选目标量停取入及达标后有限自动重试、低优先级必做的时间→产量估算。
+- **已确认决定**：2026-11-03 用户逐项确认及批准的实施计划、10/21最终修改包、11/3导出反馈；2026-11-04 用户确认配置后直接启动、持续成本估算与独立可选成本上限、有限自动重试与人工补救、可选目标量停取入及达标后有限自动重试、低优先级必做的时间→产量估算；2026-11-05 用户确认移除不参与预测的单条成品成本输入。
 - **差异处理结果**：目标量达标后保留配置次数内的自动重试，旧代码停止自动重试的行为已按用户选择修正；停止新输入与其他运行上限仍生效。
 - **历史基线**：一期当前云稿、10/19二期旧稿、10/21本地最终核对稿、10/22共用优化文档。10/21修正未进入旧云稿，因此旧云稿不能单独当最新规则。
 - **会议建议**：11/2成本与转化会议（OpenViking meeting-3f239a9eaa0d0b57，源src-9279de8c54819b47）；11/2追溯会议（meeting-1fd06871610053b0）；10/29目标口径会议（meeting-8083ea651aac643a）。它们解释风险和边界，不代表生产方案已定。
